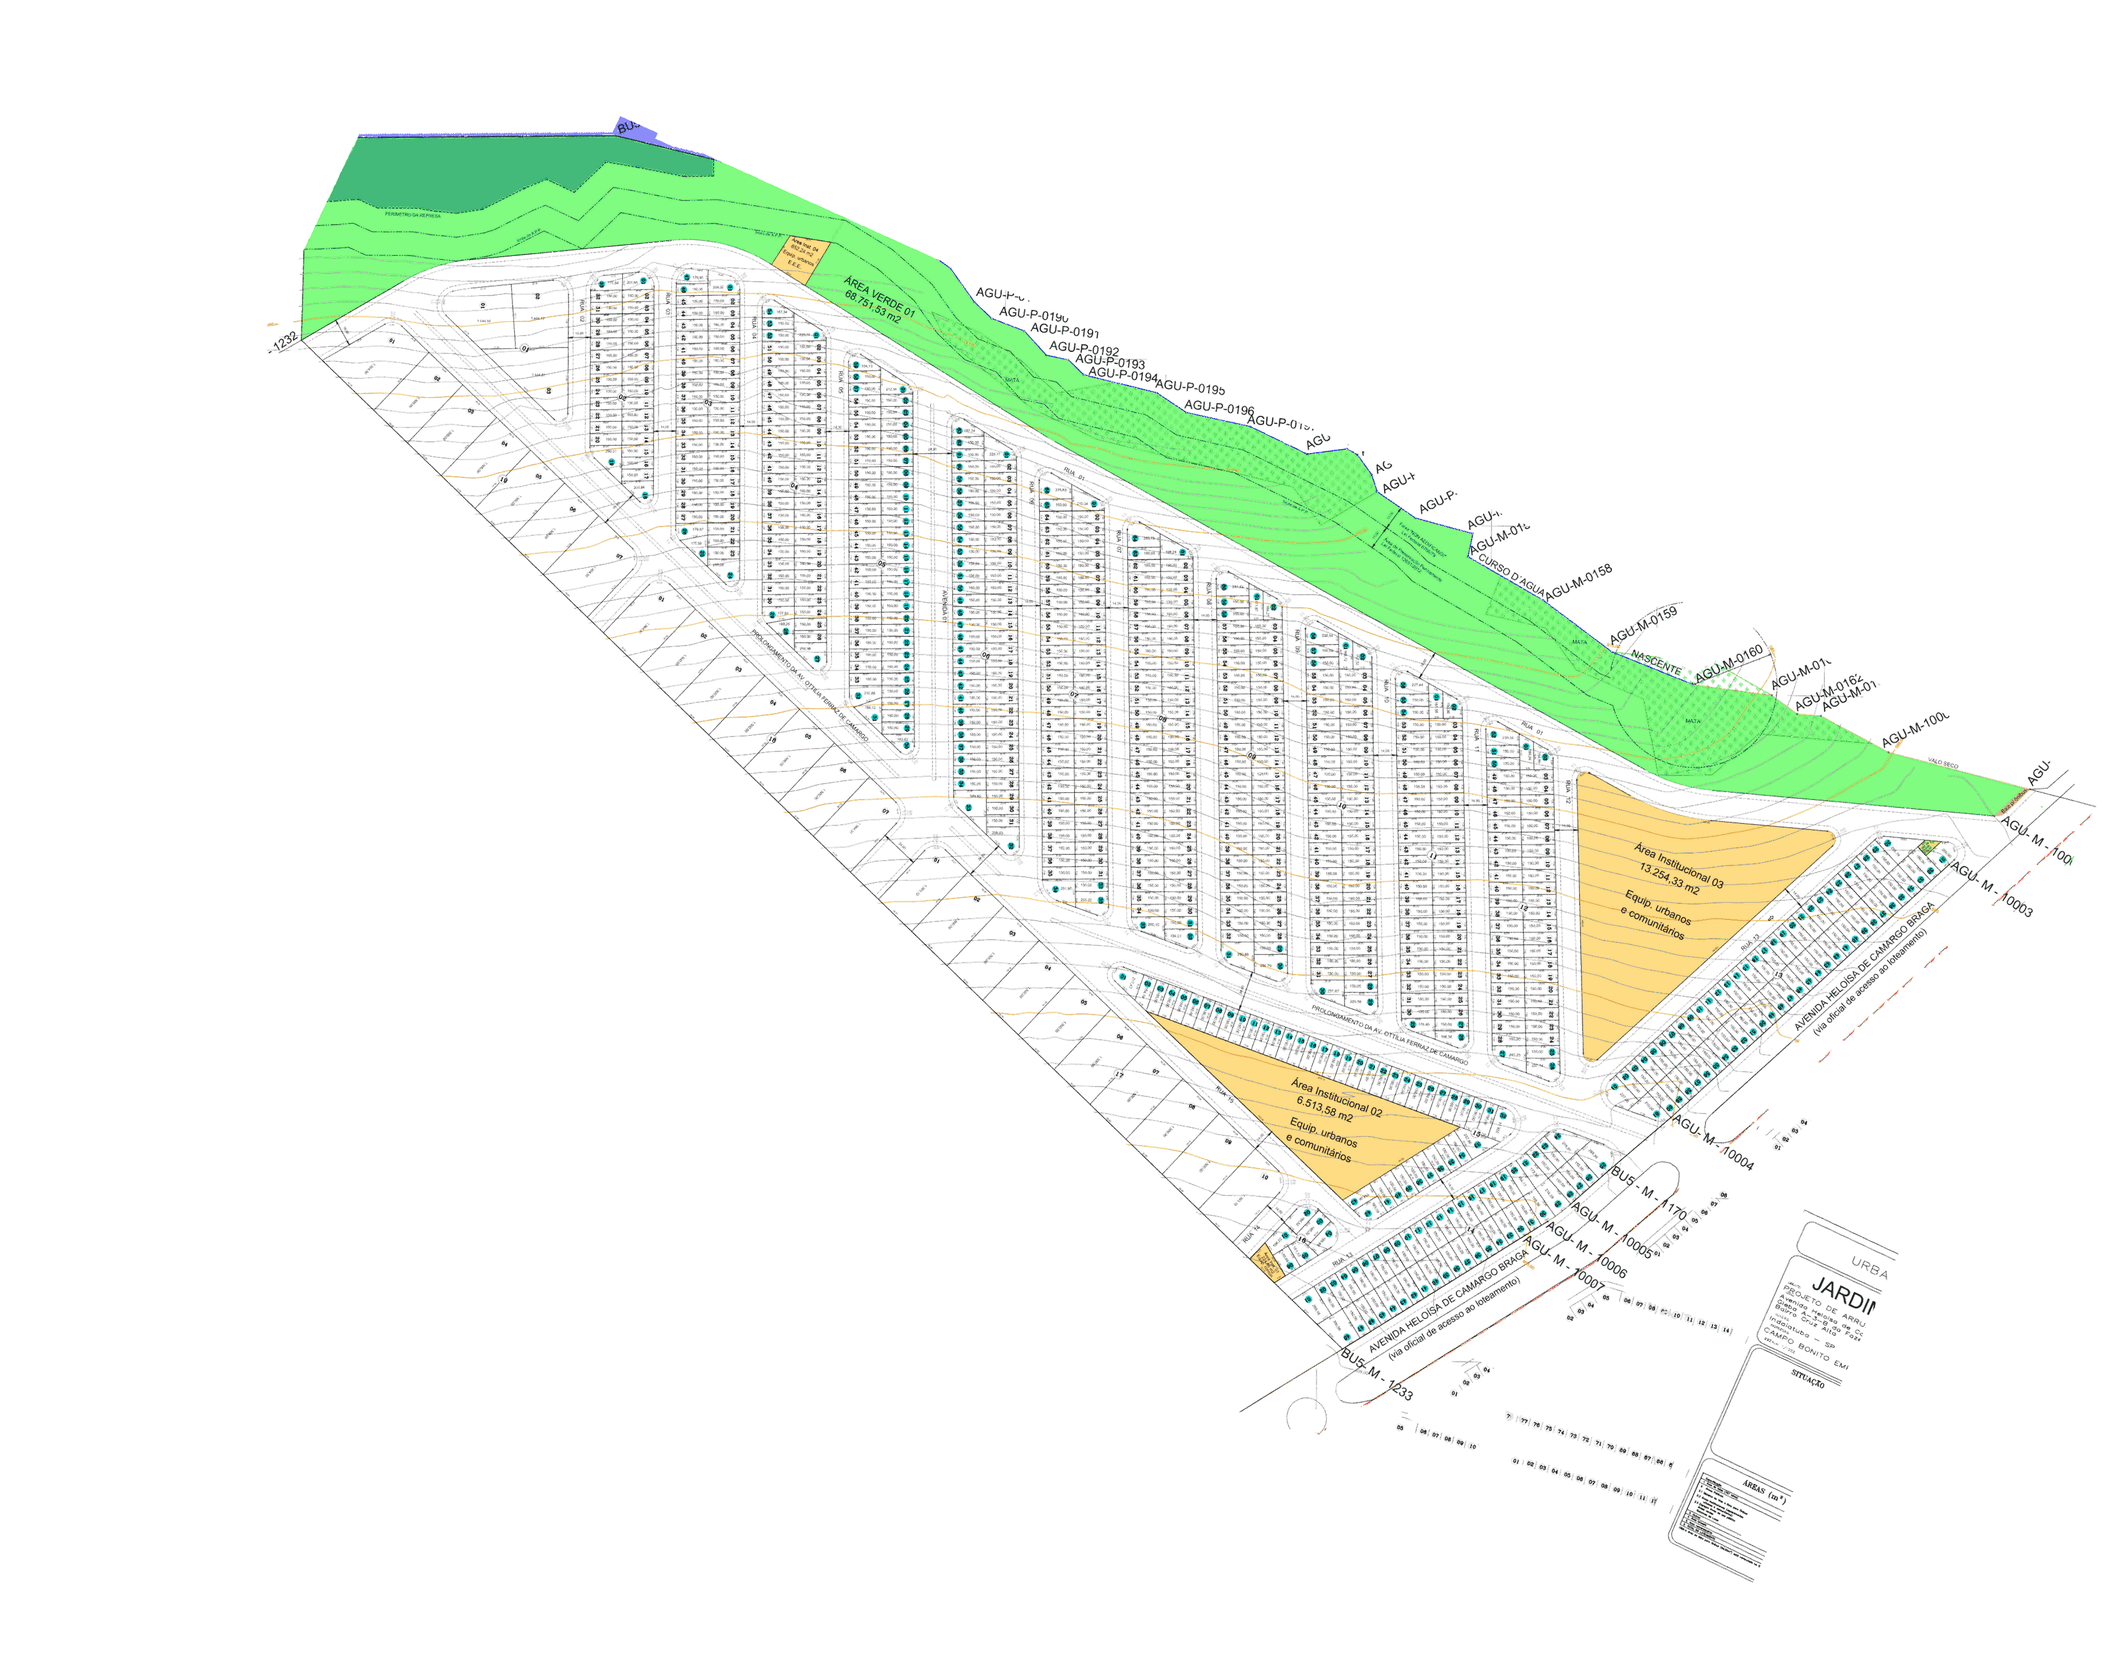
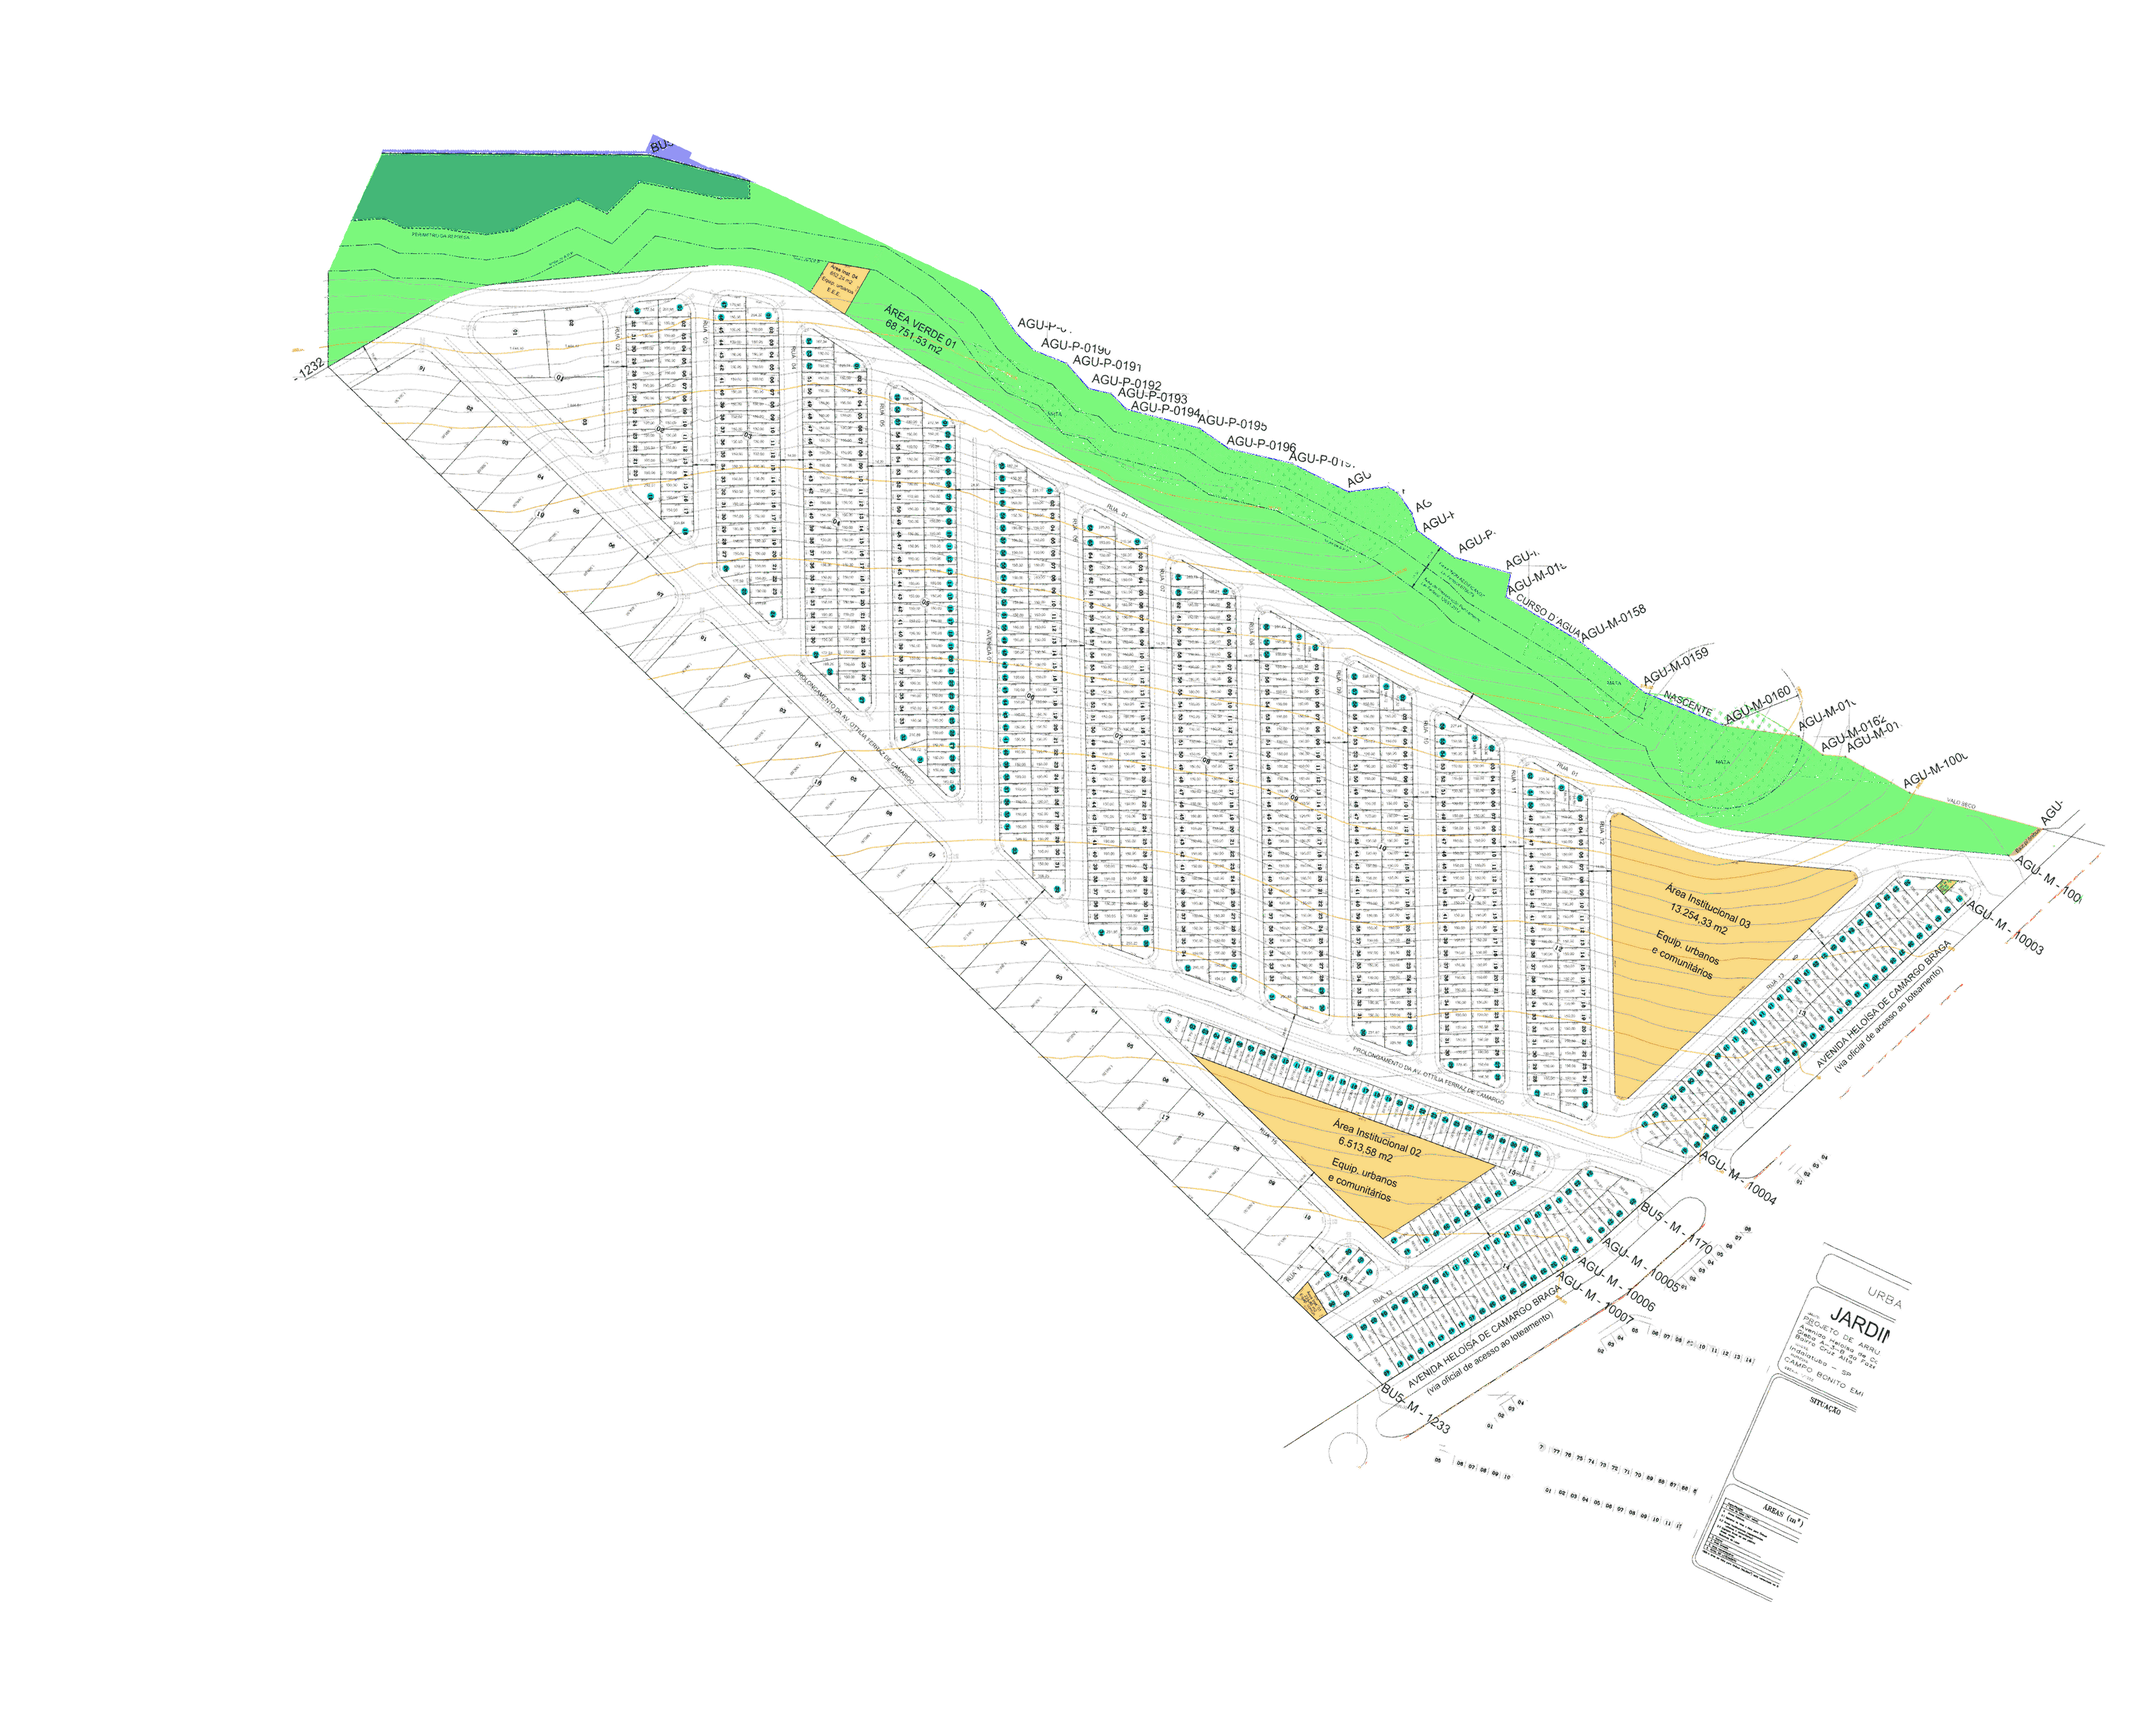
Mapa de lotes: Jardim das Araras com o encaixe final do Fabio (deformação de 76 m, giro 1°) e pinos junto

Changed region(s): [[0.1248, 0.0622, 0.9674, 0.8711], [0.7178, 0.84, 0.8426, 0.9644]]

diff --git a/mapa-lotes-indaiatuba/index.html b/mapa-lotes-indaiatuba/index.html
@@ -143,7 +143,7 @@ const BAIRROS = [
   { id:'zarah-perola', nome:'Parque Zarah — Pérola (fase 3)', sub:'condomínio fechado Zarin · 657 lotes · entrega dez/2028', landing:'/parque-zarah-indaiatuba/', cond:'ato de 12% + 180 parcelas mensais, tabela Zarin de set/2026', overlay:{ url:'images/zarah-perola.png', bounds:[[-23.099411964,-47.270175998],[-23.094030998,-47.265280434]] } },
   { id:'bemtevi',    nome:'Jardim Bem-Te-Vi', overlay:{ url:'images/bemtevi.png', bounds:[[-23.104009900,-47.269992856],[-23.100875636,-47.266748130]] } },
   { id:'andorinhas', nome:'Jardim das Andorinhas', overlay:{ url:'images/andorinhas.png', bounds:[[-23.108521524,-47.272461516],[-23.104284716,-47.269854118]] } },
-  { id:'araras',     nome:'Jardim das Araras', overlay:{ url:'images/araras.png', bounds:[[-23.096507189,-47.288929032],[-23.087411720,-47.276224868]] } },
+  { id:'araras',     nome:'Jardim das Araras', overlay:{ url:'images/araras.png', bounds:[[-23.096628316,-47.289136648],[-23.087213092,-47.276296914]] } },
   { id:'campobonito',nome:'Parque Campo Bonito', sub:'lotes 12x · glebas na Av. Clóvis Ferraz de Camargo', centro:[-23.09681,-47.27876], overlay:{ url:'images/campobonito.png', bounds:[[-23.100125839,-47.282674074],[-23.092201813,-47.270022308]] } },
   { id:'barnabe',    nome:'Parque Barnabé (Smart City)', sub:'loteamento Smart City', overlay:{ url:'images/barnabe.png', bounds:[[-23.092843825,-47.284648472],[-23.083629713,-47.272626536]] } },
 ];
@@ -1716,16 +1716,16 @@ const LOTES = [
   { b:'andorinhas', q:'E', l:'11', m2:210.65, tipo:'MISTO',     pm2:1300,    vista:273845.00, entrada:41076.75,  parcela:3783.15,  ll:[-23.105316,-47.270125], soVista:true },
   { b:'andorinhas', q:'E', l:'12', m2:213.15, tipo:'MISTO',     pm2:1300,    vista:277095.00, entrada:41564.25,  parcela:3828.04,  ll:[-23.105386,-47.270118], soVista:true },
   // Jardim das Araras — planta original do loteamento georreferenciada (casamento com o OpenStreetMap/satélite); pinos reposicionados pela planta
-  { b:'araras',  q:'13', l:'30', m2:255.19, tipo:'COMERCIAL',   pm2:1500,    vista:382785.00, entrada:57417.75,  parcela:5288.14,  ll:[-23.091956,-47.277626], soVista:true },
-  { b:'araras',  q:'15', l:'1',  m2:217.43, tipo:'COMERCIAL',   pm2:1300,    vista:282659.00, entrada:null,      parcela:null,     soVista:true, ll:[-23.092813,-47.282200] },
-  { b:'araras',  q:'17', l:'1',  m2:1393.10,tipo:'MISTO',       pm2:1000,    vista:1393100.00,entrada:208965.00, parcela:19245.56, ll:[-23.092285,-47.283478], soVista:true },
-  { b:'araras',  q:'17', l:'2',  m2:1500,   tipo:'MISTO',       pm2:1000,    vista:1500000.00,entrada:225000.00, parcela:20722.37, ll:[-23.092395,-47.283167], soVista:true },
-  { b:'araras',  q:'17', l:'3',  m2:1500,   tipo:'MISTO',       pm2:1000,    vista:1500000.00,entrada:225000.00, parcela:20722.37, ll:[-23.092611,-47.282946], soVista:true },
-  { b:'araras',  q:'18', l:'6',  m2:1500,   tipo:'MISTO',       pm2:1000,    vista:1500000.00,entrada:225000.00, parcela:20722.37, ll:[-23.091772,-47.283966], soVista:true },
-  { b:'araras',  q:'18', l:'7',  m2:1564.31,tipo:'MISTO',       pm2:1000,    vista:1564310.00,entrada:234646.50, parcela:21610.81, ll:[-23.091904,-47.283787], soVista:true },
-  { b:'araras',  q:'19', l:'1',  m2:1924.50,tipo:'MISTO',       pm2:1000,    vista:1924500.00,entrada:288675.00, parcela:26586.80, ll:[-23.089472,-47.286737], soVista:true },
-  { b:'araras',  q:'19', l:'2',  m2:1500,   tipo:'MISTO',       pm2:1000,    vista:1500000.00,entrada:225000.00, parcela:20722.37, ll:[-23.089542,-47.286524], soVista:true },
-  { b:'araras',  q:'19', l:'3',  m2:1500,   tipo:'MISTO',       pm2:1000,    vista:1500000.00,entrada:225000.00, parcela:20722.37, ll:[-23.089734,-47.286280], soVista:true },
+  { b:'araras',  q:'13', l:'30', m2:255.19, tipo:'COMERCIAL',   pm2:1500,    vista:382785.00, entrada:57417.75,  parcela:5288.14,  ll:[-23.091976,-47.277717], soVista:true },
+  { b:'araras',  q:'15', l:'1',  m2:217.43, tipo:'COMERCIAL',   pm2:1300,    vista:282659.00, entrada:null,      parcela:null,     soVista:true, ll:[-23.092852,-47.282138] },
+  { b:'araras',  q:'17', l:'1',  m2:1393.10,tipo:'MISTO',       pm2:1000,    vista:1393100.00,entrada:208965.00, parcela:19245.56, ll:[-23.092330,-47.283405], soVista:true },
+  { b:'araras',  q:'17', l:'2',  m2:1500,   tipo:'MISTO',       pm2:1000,    vista:1500000.00,entrada:225000.00, parcela:20722.37, ll:[-23.092439,-47.283095], soVista:true },
+  { b:'araras',  q:'17', l:'3',  m2:1500,   tipo:'MISTO',       pm2:1000,    vista:1500000.00,entrada:225000.00, parcela:20722.37, ll:[-23.092655,-47.282874], soVista:true },
+  { b:'araras',  q:'18', l:'6',  m2:1500,   tipo:'MISTO',       pm2:1000,    vista:1500000.00,entrada:225000.00, parcela:20722.37, ll:[-23.091813,-47.283898], soVista:true },
+  { b:'araras',  q:'18', l:'7',  m2:1564.31,tipo:'MISTO',       pm2:1000,    vista:1564310.00,entrada:234646.50, parcela:21610.81, ll:[-23.091946,-47.283717], soVista:true },
+  { b:'araras',  q:'19', l:'1',  m2:1924.50,tipo:'MISTO',       pm2:1000,    vista:1924500.00,entrada:288675.00, parcela:26586.80, ll:[-23.089433,-47.286765], soVista:true },
+  { b:'araras',  q:'19', l:'2',  m2:1500,   tipo:'MISTO',       pm2:1000,    vista:1500000.00,entrada:225000.00, parcela:20722.37, ll:[-23.089508,-47.286543], soVista:true },
+  { b:'araras',  q:'19', l:'3',  m2:1500,   tipo:'MISTO',       pm2:1000,    vista:1500000.00,entrada:225000.00, parcela:20722.37, ll:[-23.089711,-47.286286], soVista:true },
   // Parque Campo Bonito — planta original do loteamento georreferenciada (casamento com o OpenStreetMap/satélite); pinos reposicionados pela planta
   { b:'campobonito', q:'A', l:'7C-1', m2:1675.73, tipo:'GLEBA', pm2:1300,    vista:2178449.00,entrada:326767.35, parcela:30095.09, nx:96, obs:'Gleba A 7C-1, próx. à Paróquia São João Paulo II (Av. Clóvis Ferraz de Camargo, 930, segundo a Arquidiocese de Campinas) — posição exata a confirmar.' },
   { b:'campobonito', q:'A', l:'7C-2', m2:1675.73, tipo:'GLEBA', pm2:1300,    vista:2178449.00,entrada:326767.35, parcela:30095.09, nx:96, obs:'Gleba A 7C-2, próx. à Paróquia São João Paulo II (Av. Clóvis Ferraz de Camargo, 930, segundo a Arquidiocese de Campinas) — posição exata a confirmar.' },

diff --git a/ferramentas/mapa-lotes/aplica-ajustes.py b/ferramentas/mapa-lotes/aplica-ajustes.py
@@ -48,7 +48,7 @@ for _f in sorted(glob.glob(S + '/ajuste/ajustes-aplicado-*.json')): _apl.update(
 for _k in list(aj):
     _p, _v = _apl.get(_k), aj[_k]
     if _p and _v.get('cantos') and all(abs(_p['cantos'][q][i] - _v['cantos'][q][i]) < 1e-8 for q in CANTOS for i in (0, 1)):
-        print('!! %s: cantos iguais a um ajuste ja' aplicado — e' re-gravacao antiga, pulei' % _k); del aj[_k]
+        print("!! %s: cantos iguais a um ajuste ja aplicado (regravacao de aba sem F5), pulei" % _k); del aj[_k]
 if not aj: print('nada ajustado'); sys.exit()
 html = open(R + 'index.html', encoding='utf-8', newline='').read(); assert '\r' not in html
 saida_img = (TESTE.rstrip('/\\') + '/') if TESTE else R + 'images/'
